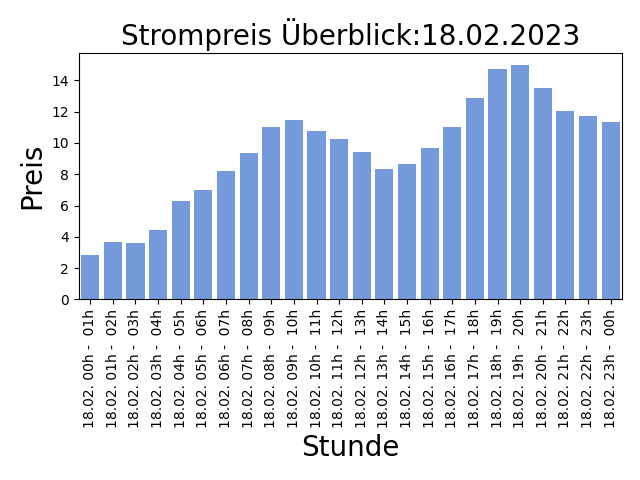
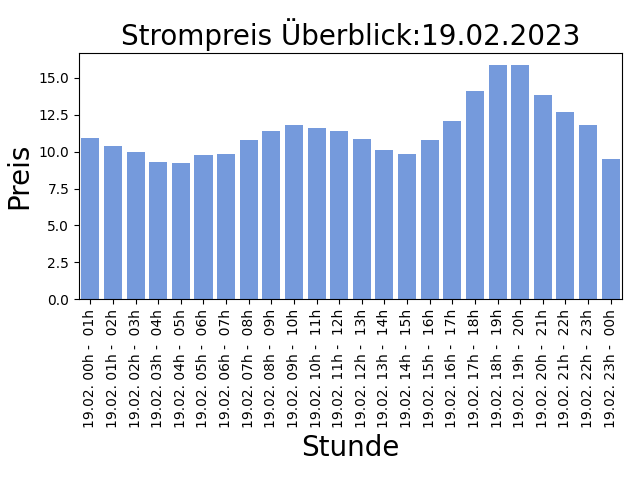
AUTOMATIC UPDATE PRICE LIST: 2023-02-18-14:30:07

diff --git a/README.md b/README.md
@@ -1,5 +1,5 @@
 
-## Strompreise für den 18.02.2023
+## Strompreise für den 19.02.2023
 
 Niedrige Preise deuten auf viel Sonnen und Windenergieerzeugung hin, ein hoher Anteil an erneuerbaren Energien bedeuted weniger CO2 Verbrauch!
 
@@ -7,31 +7,31 @@ Niedrige Preise deuten auf viel Sonnen und Windenergieerzeugung hin, ein hoher A
 
 | Stunde | Preis in Cent/kWh |
 |---|---|
-| **18.02. 00h -  01h** | **2.814** | 
-| 18.02. 01h -  02h | 3.6439999999999997 | 
-| 18.02. 02h -  03h | 3.582 | 
-| 18.02. 03h -  04h | 4.441 | 
-| 18.02. 04h -  05h | 6.298 | 
-| 18.02. 05h -  06h | 7.01 | 
-| 18.02. 06h -  07h | 8.226 | 
-| 18.02. 07h -  08h | 9.337 | 
-| 18.02. 08h -  09h | 10.995000000000001 | 
-| 18.02. 09h -  10h | 11.492 | 
-| 18.02. 10h -  11h | 10.764 | 
-| 18.02. 11h -  12h | 10.28 | 
-| 18.02. 12h -  13h | 9.447 | 
-| 18.02. 13h -  14h | 8.329 | 
-| 18.02. 14h -  15h | 8.637 | 
-| 18.02. 15h -  16h | 9.66 | 
-| 18.02. 16h -  17h | 10.998000000000001 | 
-| 18.02. 17h -  18h | 12.88 | 
-| 18.02. 18h -  19h | 14.708000000000002 | 
-| 18.02. 19h -  20h | 14.995 | 
-| 18.02. 20h -  21h | 13.549000000000001 | 
-| 18.02. 21h -  22h | 12.064 | 
-| 18.02. 22h -  23h | 11.699 | 
-| 18.02. 23h -  00h | 11.366 | 
+| 19.02. 00h -  01h | 10.904 | 
+| 19.02. 01h -  02h | 10.412 | 
+| 19.02. 02h -  03h | 9.953 | 
+| 19.02. 03h -  04h | 9.3 | 
+| **19.02. 04h -  05h** | **9.254999999999999** | 
+| 19.02. 05h -  06h | 9.778 | 
+| 19.02. 06h -  07h | 9.85 | 
+| 19.02. 07h -  08h | 10.777 | 
+| 19.02. 08h -  09h | 11.386 | 
+| 19.02. 09h -  10h | 11.831999999999999 | 
+| 19.02. 10h -  11h | 11.617 | 
+| 19.02. 11h -  12h | 11.387 | 
+| 19.02. 12h -  13h | 10.852 | 
+| 19.02. 13h -  14h | 10.118 | 
+| 19.02. 14h -  15h | 9.854000000000001 | 
+| 19.02. 15h -  16h | 10.77 | 
+| 19.02. 16h -  17h | 12.072 | 
+| 19.02. 17h -  18h | 14.111 | 
+| 19.02. 18h -  19h | 15.87 | 
+| 19.02. 19h -  20h | 15.838 | 
+| 19.02. 20h -  21h | 13.831 | 
+| 19.02. 21h -  22h | 12.709999999999999 | 
+| 19.02. 22h -  23h | 11.768 | 
+| 19.02. 23h -  00h | 9.485 | 
 
 Preise der EPEX Spot ® Strombörse (neue Preise werden täglich um 14:00 veröffentlicht für den kompletten nächsten Tag).
 
-letzte Aktualisierung:17.02.2023 14:30
+letzte Aktualisierung:18.02.2023 14:30
